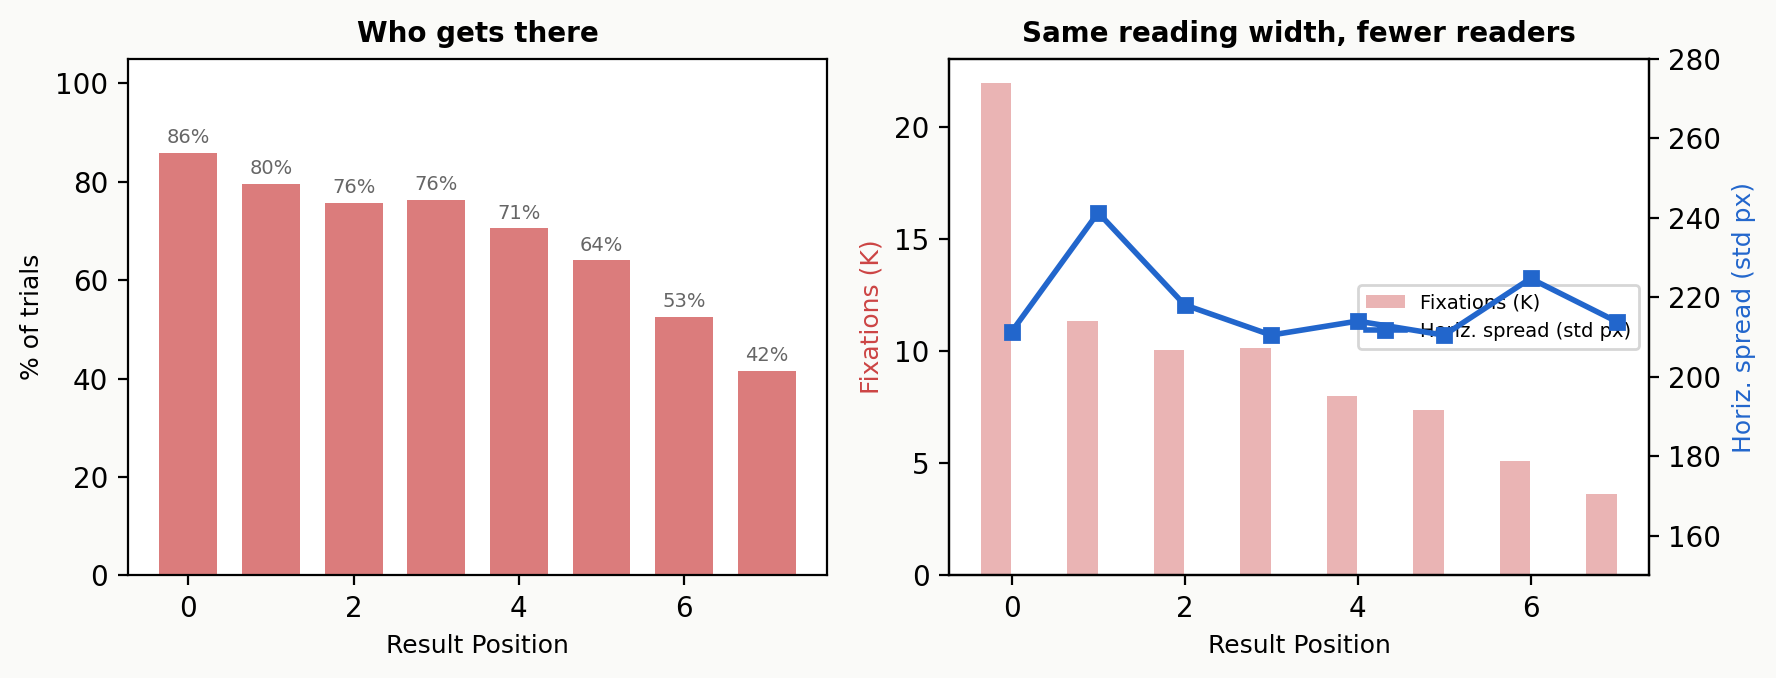
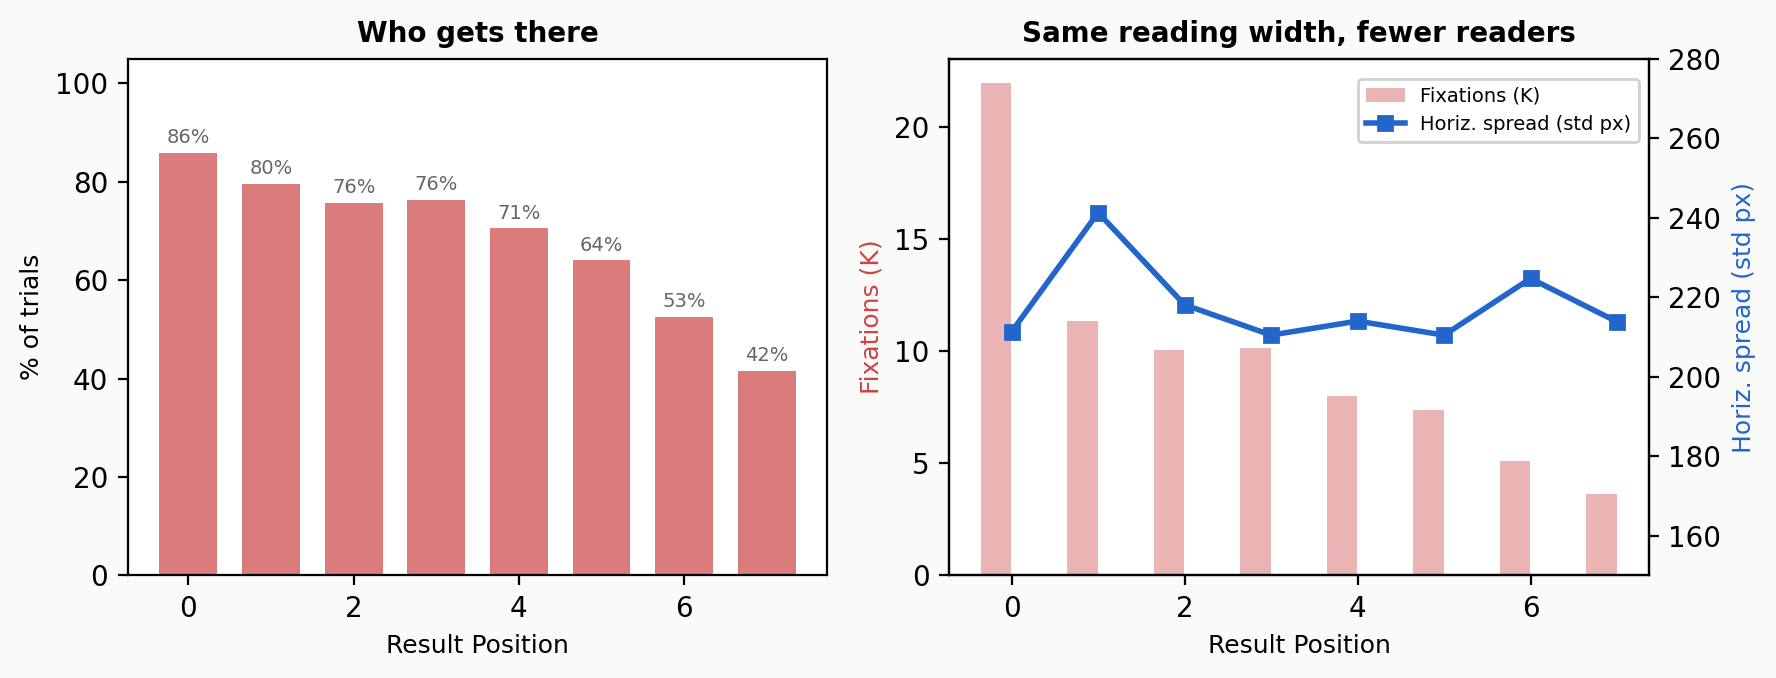
rebrand: Frame by Frame — new title, OG image, header

Changed region(s): [[0.7432, 0.0929, 0.9291, 0.2168], [0.7432, 0.4027, 0.9291, 0.5265], [0.8671, 0.4027, 0.9291, 0.4336]]

diff --git a/explainer/index.html b/explainer/index.html
@@ -3,10 +3,10 @@
 <head>
   <meta charset="UTF-8">
   <meta name="viewport" content="width=device-width, initial-scale=1.0">
-  <title>The Search Results F-Heatmap, Stroke by Stroke</title>
-  <meta name="description" content="The F-pattern is two cognitive phases superimposed in one heatmap. 2,776 eye-tracked search sessions decomposed stroke by stroke.">
-  <meta property="og:title" content="The Search Results F-Heatmap, Stroke by Stroke">
-  <meta property="og:description" content="The F-pattern is two cognitive phases superimposed in one heatmap. We decomposed 2,776 eye-tracked search sessions stroke by stroke.">
+  <title>The Search Results F-Heatmap, Frame by Frame</title>
+  <meta name="description" content="The F-pattern is two cognitive phases superimposed in one heatmap. 2,776 eye-tracked search sessions decomposed frame by frame.">
+  <meta property="og:title" content="The Search Results F-Heatmap, Frame by Frame">
+  <meta property="og:description" content="The F-pattern is two cognitive phases superimposed in one heatmap. We decomposed 2,776 eye-tracked search sessions frame by frame.">
   <meta property="og:image" content="https://andyed.github.io/attentional-foraging/explainer/og-image.png">
   <meta property="og:image:width" content="1800">
   <meta property="og:image:height" content="940">
@@ -143,13 +143,13 @@
 <body>
 
 <div class="page-header">
-  <h1>The Search Results F-Heatmap, Stroke by Stroke</h1>
+  <h1>The Search Results F-Heatmap, Frame by Frame</h1>
   <div class="subtitle">2,776 eye-tracked search sessions reveal that the F-pattern's horizontal bars and vertical stem are two distinct cognitive operations — drawn 1.3 seconds apart</div>
   <div class="byline">Andy Edmonds · April 2026 · Based on <a href="https://doi.org/10.1145/3726302.3730325">AdSERP</a> (Latifzadeh, Gwizdka &amp; Leiva, SIGIR 2025)</div>
 </div>
 
 <div id="content">
-<p><div style="float:right;margin:0 0 1em 1.5em;max-width:320px;"> <img src="heat-map-f-shape.jpg" alt="The classic F-pattern heatmap on a Google SERP" style="width:100%;border-radius:4px;"> <p style="font-size:0.75em;color:#999;margin-top:4px;line-height:1.4;">Image: <a href="https://www.nngroup.com/articles/f-shaped-pattern-reading-web-content/" style="color:#888;">NNG</a>. Nielsen's team studied the F on general web pages; their <a href="https://www.nngroup.com/articles/f-shaped-pattern-reading-web-content/" style="color:#888;">2017 follow-up</a> identified five other scanning patterns, specified the F as a conditional fallback, and acknowledged users are "globally rational." The F-on-SERPs extrapolation was mostly the industry's work. Our analysis is SERP-specific.</p> </div></p>
+<p><div style="float:right;margin:0 0 1em 1.5em;max-width:320px;"> <img src="heat-map-f-shape.jpg" alt="The classic F-pattern heatmap on a Google SERP" style="width:100%;border-radius:4px;"> <p style="font-size:0.75em;color:#555;margin-top:4px;line-height:1.4;">Image: <a href="https://www.nngroup.com/articles/f-shaped-pattern-reading-web-content/" style="color:#446688;">NNG</a>. Nielsen's team studied the F on general web pages; their <a href="https://www.nngroup.com/articles/f-shaped-pattern-reading-web-content/" style="color:#446688;">2017 follow-up</a> identified five other scanning patterns, specified the F as a conditional fallback, and acknowledged users are "globally rational." The F-on-SERPs extrapolation was mostly the industry's work. Our analysis is SERP-specific.</p> </div></p>
 <p class="has-dropcap">You may know this image. The F-pattern — horizontal bars at the top, vertical stem down the left. In 2006, Nielsen's F was a sledgehammer that broke the industry's assumption that users read websites like novels. That was a necessary correction. The F became the most recognized finding in web design, widely applied to search results pages.</p>
 <p><mark class="mg-mark">A heatmap collapses time.</mark> It shows <em>where</em> people looked, never <em>when</em>. Nielsen's team worked with the eye trackers of 2006 — typically 30–60Hz, no pupil measurement, aggregate heatmaps as the primary analysis tool. Today we have 150Hz tracking with simultaneous pupillometry, per-fixation timestamps, and datasets large enough to detect phase transitions within individual trials. On search results pages — where the F-pattern's influence on design runs deepest — we can now replay the tape frame by frame.</p>
 <p>From years of eye-tracking studies and SERP experiments at eBay, Microsoft, and Meta, I've suspected the first moments on a results page involve a distinct sampling phase before committed reading. The AdSERP dataset (Latifzadeh, Gwizdka & Leiva, SIGIR 2025) — 2,776 sessions at 150Hz with pupillometry — finally gave enough resolution to test it. We're writing up the full analysis; along the way, the F-pattern fell out of the decomposition.</p>
@@ -200,7 +200,7 @@
 <p><img src="survey-gaze-plot-cropped.png" alt="Survey phase in a real session — 5 fixations in 1.0s, then cognitive load spikes"></p>
 <p>In this session, the participant internalized the query on the prior screen — orientation is instant, and the survey begins immediately. The pupil load coloring (blue = low load, red = high) shows the constriction→dilation trajectory in real time:</p>
 <p><div style="overflow:hidden;border:1px solid #e0e0e0;border-radius:6px;margin:1em 0;height:560px;"> <iframe src="https://andyed.github.io/attentional-foraging/p047-b1-t9.html#fix=6&w=6&mode=gazeplot&color=load" style="width:142%;height:142%;border:none;transform:scale(0.7);transform-origin:top left;" loading="lazy"></iframe> </div></p>
-<p><p style="font-size:0.85em;color:#555;text-align:center;">Interactive scanpath replay: p047-b1-t9 (mouse follower, 65 fixations). Press Play, then toggle "Color: Pupil Load." <a href="https://andyed.github.io/attentional-foraging/" style="color:#2a6496;">More sessions →</a></p></p>
+<p><p style="font-size:0.85em;color:#555;text-align:center;">Interactive scanpath replay: p047-b1-t9 (65 fixations). More sessions showing the orient→survey transition: <a href="https://andyed.github.io/attentional-foraging/p031-b3-t9.html#fix=12&w=46&color=load" style="color:#2a6496;">p031-b3-t9</a> · <a href="https://andyed.github.io/attentional-foraging/p020-b6-t10.html#fix=8&w=230&color=load" style="color:#2a6496;">p020-b6-t10</a> · <a href="https://andyed.github.io/attentional-foraging/p049-b2-t6.html#fix=8&w=26&color=load" style="color:#2a6496;">p049-b2-t6</a> · <a href="https://andyed.github.io/attentional-foraging/" style="color:#2a6496;">all sessions →</a></p></p>
 <hr>
 <h2>Evaluate</h2>
 <p>After the survey, the user transitions to serial reading. Saccades narrow. The eyes move within result snippets, not between them. Each result gets approximately 2 fixations and half a second — consistent from position 1 to position 8.</p>
@@ -222,14 +222,13 @@
 <p>The existing literature has gone remarkably far with the single-pass, top-down examination assumption. But 69% of these trials violate it. OSEC adds what the data shows: examination is a multi-pass process with distinct cognitive phases, and the interesting decision-making happens not at the stopping point but at the <em>re-evaluation</em> point.</p>
 <hr>
 <h2>The same simplification, twice</h2>
-<p>The F-pattern and search ranking algorithms make the same assumption from different directions.</p>
-<p>The F-pattern says: "Users scan in an F shape." But the same simplification runs deeper. Every time you click a search result (or don't), the search engine updates a mathematical model of how likely you are to examine each position on the page. These "click models" are how Google, Bing, and every other engine learn which results are good — they're the mathematical backbone of search ranking. The dominant ones — cascade (Craswell et al., 2008), DBN (Chapelle & Zhang, 2009), UBM (Dupret & Piwowarski, 2008) — all assume the same thing the F-pattern assumes: users examine results top-down with a single, monotonically decreasing probability. One behavior, top to bottom.</p>
-<p>Neither the visual heatmap nor the mathematical model accounts for the survey phase. In both, its fixations get merged with evaluate fixations, and the two-operation structure collapses into a single pattern or a single probability. Liu et al. (2014) came closest with a two-stage "skimming then reading" model, but without per-fixation saccade evidence they couldn't separate gist sampling from early reading.</p>
-<p>This isn't a criticism. Nielsen's heatmaps, Craswell's cascade model, and the twenty years of work built on them were correct at the resolution available. You can't decompose temporal phases from aggregate spatial heatmaps. You can't separate survey from evaluate without per-fixation saccade kinematics and pupillometry at scale.</p>
-<p>What changed is the resolution. The saccade amplitude transition is detectable within <em>individual trials</em> (p = 10⁻¹²⁸). The pupil signature separates the phases at p = 10⁻¹¹⁷. These aren't subtle aggregate effects — they're robust per-trial phenomena that previous datasets were too small or too coarsely sampled to detect.</p>
-<p>The F-pattern wasn't a map of how we read. It was a long-exposure photograph of two different behaviors. We just needed 150 frames per second to watch it get drawn.</p>
+<p>The F-pattern and click models — used in machine learning from user SERP behavior — make the same assumption from different directions:</p>
+<p><table> <tr><th></th><th>F-Pattern (UX)</th><th>Click Models (IR)</th></tr> <tr><td><b>Says</b></td><td>"Users scan in an F shape."</td><td>"Users examine top-down with decreasing probability."</td></tr> <tr><td><b>Assumes</b></td><td>One scanning behavior.</td><td>One examination function.</td></tr> <tr><td><b>Misses</b></td><td>The horizontal bars are a separate phase.</td><td>Survey and evaluate have different probability distributions.</td></tr> <tr><td><b>Tool</b></td><td>Aggregate heatmaps (30–60Hz).</td><td>Click logs (no gaze data).</td></tr> <tr><td><b>Key models</b></td><td>Nielsen (2006)</td><td>Cascade (2008), DBN (2009), UBM (2008)</td></tr> </table></p>
+<p>Neither accounts for the survey phase. In both, survey fixations merge with evaluate fixations and the two-operation structure collapses. Liu et al. (2014) came closest with "skimming then reading," but without per-fixation saccade evidence couldn't separate gist sampling from early reading.</p>
+<p>This isn't a criticism — both were correct at the resolution available. What changed is the data. <span class="stats-detail">Saccade amplitude transition: p = 10⁻¹²⁸. Pupil signature: p = 10⁻¹¹⁷. Detectable within individual trials.</span></p>
 <h3>The F-pattern: then and now</h3>
 <p><table> <tr><th>Feature</th><th>2006 Interpretation (NNG)</th><th>2026 Decomposition (AdSERP)</th></tr> <tr><td><b>Shape cause</b></td><td>Declining interest/effort over distance.</td><td>Two distinct behaviors (Survey + Evaluate) overlaid.</td></tr> <tr><td><b>Lower horizontal bar</b></td><td>Users read less of the lower content.</td><td><b>Survival effect:</b> Fewer users reach that depth.</td></tr> <tr><td><b>First 1.3 seconds</b></td><td>"Early reading."</td><td><b>Survey phase:</b> Cheap gist-sampling (pupil constriction).</td></tr> <tr><td><b>Vertical stem</b></td><td>A downward scan.</td><td><b>Evaluate phase:</b> High-load serial reading (pupil dilation).</td></tr> <tr><td><b>Design advice</b></td><td>Put important content at the top.</td><td>Still true — but because users don't scroll, not because they can't read.</td></tr> </table></p>
+<p><p style="font-size:1.4em;font-style:italic;text-align:center;color:#333;margin:1.5em 0;line-height:1.4;">The F-pattern wasn't a map of how we read; it was a long-exposure photograph of two different behaviors. We just needed 150 frames per second to watch it get drawn. 🎤</p></p>
 <hr>
 <h2>Data and methods</h2>
 <div class="mg-callout" data-type="tip"><p><strong>Tip:</strong> <strong>Open data, open analysis.</strong> 13 reproducible notebooks, interactive scanpath replays with foveated vision rendering, per-fixation pupil overlays, and all statistical tests: github.com/andyed/attentional-foraging. Interactive demo: andyed.github.io/attentional-foraging/.</p></div>